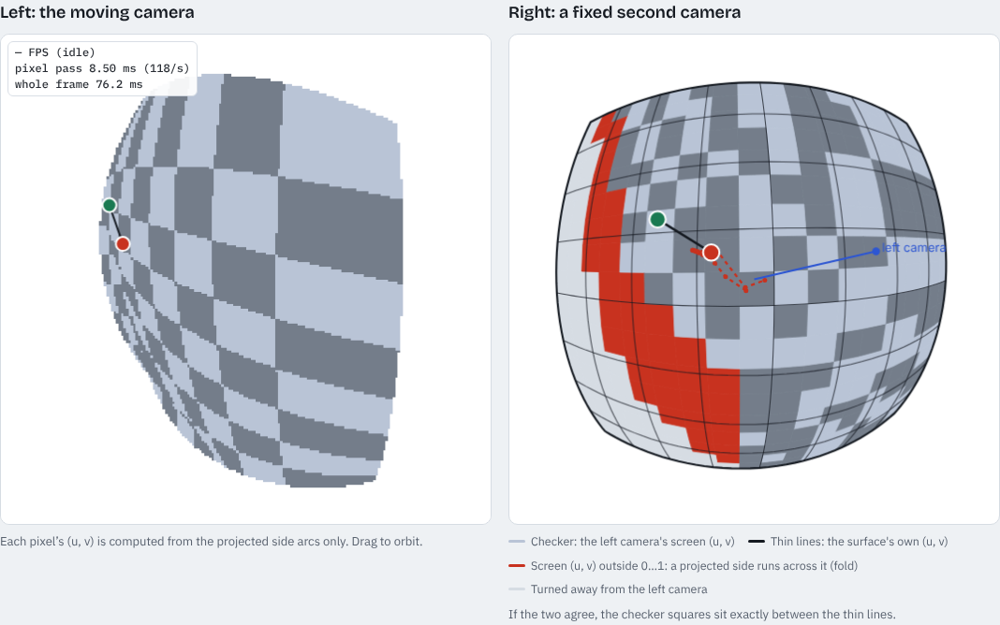
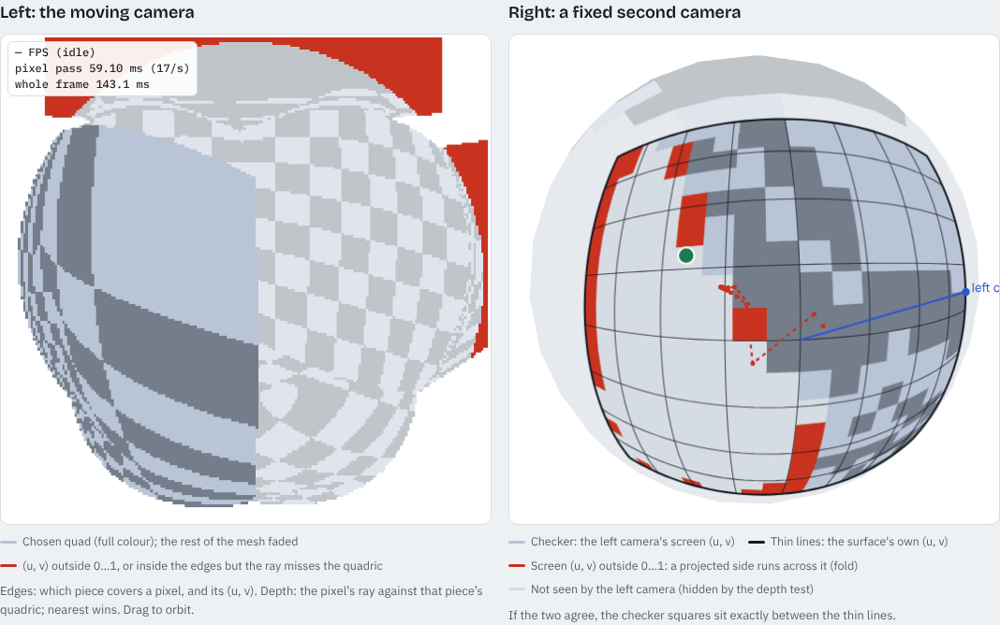
Example 08: whole mesh with depth test and occlusion map; check against step 11 (#24)
Claude-Session: https://claude.ai/code/session_01JACsrEAfGJwPGrGbmx3fgo

diff --git a/examples/08-uv-slides.html b/examples/08-uv-slides.html
@@ -67,7 +67,8 @@ tr:last-child td{border-bottom:0}
 <ol class="steps">
   <li><b>Option (b):</b> each side arc of a piece is projected onto the screen, where it is a 2D conic K. Then <code>u = K3 / (K3 + K1)</code> and <code>v = K0 / (K0 + K2)</code>. Each K is scaled to 1 at the piece's projected centre, so the centre gets (0.5, 0.5).</li>
   <li><b>Two forms of K.</b> The projected arc is part of a whole ellipse. The <b>full conic</b> K is also 0 on the ellipse's other half, which can run back across the piece (smooth cube): then u drops to 0 in the wrong place. The <b>arc only</b> form is 0 on the arc alone, at the price of a square root per side.</li>
-  <li><b>Left:</b> what the camera sees, coloured by that screen (u, v). <b>Right:</b> the same quad from a second camera that stays put. Its surface is painted with the <i>left</i> camera's screen (u, v). The thin lines are the surface's own (u, v) from step 11.</li>
+  <li><b>Depth</b> as in step 11: every piece whose edges contain a pixel shoots that pixel's ray at its own quadric (one quadratic). The nearest wins and writes its normalized distance to the occlusion map. Of the quadric's two hits, the piece takes the one whose outward side faces the camera the way the piece does.</li>
+  <li><b>Left:</b> what the camera sees, the whole mesh, coloured by the screen (u, v). The chosen quad is in full colour. <b>Right:</b> the same mesh from a second camera that stays put, painted with the <i>left</i> camera's screen (u, v) wherever the left camera sees it. The thin lines are the chosen quad's own (u, v) from step 11.</li>
   <li><b>Drag the left view.</b> If the checker on the right moves across the thin lines, the (u, v) is sliding on the surface.</li>
   <li><span style="color:var(--good)">●</span> the surface point at the marker (u, v). <span style="color:var(--warn)">●</span> where the left camera's screen (u, v) says the marker is. The dotted path is the red dot for 25 camera angles around the quad.</li>
 </ol>
@@ -76,7 +77,8 @@ tr:last-child td{border-bottom:0}
   <div class="crow"><span class="clab">Mesh</span><div class="seg" id="g-mesh"><button data-v="0">Smooth cube</button><button data-v="1">Hard cube</button><button data-v="2">Mixed cube</button><button data-v="3">Wave</button></div></div>
   <div class="crow"><span class="clab">Quad</span><div class="seg" id="g-quad"></div></div>
   <div class="crow"><span class="clab">Side curve K</span><div class="seg" id="g-form"><button data-v="0">Arc only: b1 − 2w′√(b0·b2)</button><button data-v="1">Full conic: b1² − 4w′²·b0·b2</button></div></div>
-  <div class="crow"><span class="clab">Left view</span><div class="seg" id="g-mode"><button data-v="0">Screen (u, v): option b</button><button data-v="1">Surface (u, v): step 11</button></div></div>
+  <div class="crow"><span class="clab">Show</span><div class="seg" id="g-view"><button data-v="0">(u, v) checker</button><button data-v="1">Occlusion map (depth)</button><button data-v="2">Check against step 11</button></div></div>
+  <div class="crow"><span class="clab">(u, v) from</span><div class="seg" id="g-mode"><button data-v="0">Screen (u, v): option b</button><button data-v="1">Surface (u, v): step 11</button></div></div>
   <div class="crow"><span class="clab">Marker u</span><div class="slider"><input id="mu" type="range" min="0.02" max="0.98" step="0.01" aria-label="Marker u"><output id="muo"></output></div></div>
   <div class="crow"><span class="clab">Marker v</span><div class="slider"><input id="mv" type="range" min="0.02" max="0.98" step="0.01" aria-label="Marker v"><output id="mvo"></output></div></div>
   <div class="crow"><span class="clab">Resolution</span><div class="seg" id="g-res"><button data-v="100">100²</button><button data-v="200">200²</button><button data-v="400">400²</button><button data-v="800">800²</button></div></div>
@@ -85,9 +87,10 @@ tr:last-child td{border-bottom:0}
 
 <div class="main">
   <div class="view"><h2>Left: the moving camera</h2><div class="stage"><canvas id="cv" aria-label="What the moving camera sees. Drag to orbit."></canvas><div class="fps" id="fps"></div></div>
+    <div class="legend" id="lleg"></div>
     <p class="note" id="lnote">Each pixel's (u, v) is computed from the projected side arcs only. Drag to orbit.</p></div>
   <div class="view"><h2>Right: a fixed second camera</h2><canvas id="ov" aria-label="The same quad from a fixed camera, painted with the left camera's screen (u, v). Drag to orbit this view."></canvas>
-    <div class="legend"><span><span class="ln" style="background:var(--pin)"></span>Checker: the left camera's screen (u, v)</span><span><span class="ln" style="background:var(--fg)"></span>Thin lines: the surface's own (u, v)</span><span><span class="ln" style="background:var(--warn)"></span>Screen (u, v) outside 0…1: a projected side runs across it (fold)</span><span><span class="ln" style="background:var(--line)"></span>Turned away from the left camera</span></div>
+    <div class="legend"><span><span class="ln" style="background:var(--pin)"></span>Checker: the left camera's screen (u, v)</span><span><span class="ln" style="background:var(--fg)"></span>Thin lines: the surface's own (u, v)</span><span><span class="ln" style="background:var(--warn)"></span>Screen (u, v) outside 0…1: a projected side runs across it (fold)</span><span><span class="ln" style="background:var(--line)"></span>Not seen by the left camera (hidden by the depth test)</span></div>
     <p class="note">If the two agree, the checker squares sit exactly between the thin lines.</p></div>
 </div>
 
@@ -329,44 +332,59 @@ function landing(pc,S,cam,ut,vt){const F=(a,b)=>{const X=pc.eval(a,b);if(!X)retu
   const f=F(a,b);if(!f||Math.hypot(f[0],f[1])>1e-5)return null;return{a,b,X:pc.eval(a,b)}}
 
 // ---------------- state ----------------
-let st={mesh:0,quad:2,mode:0,form:0,res:200,mu:0.3,mv:0.65,cy:0,cp:0,oy:0,op:0,init:false},R=null;
+let st={mesh:0,quad:2,mode:0,form:0,view:0,res:200,mu:0.3,mv:0.65,cy:0,cp:0,oy:0,op:0,init:false},R=null;
 try{const s=JSON.parse(localStorage.getItem('uv8')||'null');if(s)Object.assign(st,s)}catch(e){}
 const save=()=>{try{localStorage.setItem('uv8',JSON.stringify(st))}catch(e){}};
 let CONV=null,CONVKEY='';
-function conv(){const k=String(st.mesh);if(CONVKEY!==k){CONV=PIECES.convert(PIECES.source(st.mesh),0.03,0);CONVKEY=k}return CONV}
-function quadInfo(){const C=conv(),q=PIECES.source(st.mesh)[st.quad],T=mul(q.x.reduce((s,p)=>add(s,p),[0,0,0]),0.25);let side=0;for(let i=0;i<4;i++)side=Math.max(side,len(sub(q.x[(i+1)%4],q.x[i])));
+function conv(){const k=String(st.mesh);if(CONVKEY!==k){CONV=PIECES.convert(PIECES.source(st.mesh),0.03,0);CONVKEY=k;
+  // per piece, fixed on the surface: its centre and outward direction, and σ = which way its quadric's gradient points (outward or inward)
+  CONV.pieces.forEach(pc=>{const X=pc.eval(0.5,0.5),n=norm(pc.N.reduce((s,p)=>add(s,norm(p)),[0,0,0]));pc.ctr=X;pc.out=n;pc.sigma=0;
+    if(X&&pc.geo){const G=pc.geo,L=mul(sub(X,G.c0),G.sc),gr=add(mul(G.Ax(L),2),G.g);pc.sigma=Math.sign(dot(gr,n))}})}return CONV}
+function quadInfo(){const C=conv(),src=PIECES.source(st.mesh),q=src[st.quad];let side=0;for(let i=0;i<4;i++)side=Math.max(side,len(sub(q.x[(i+1)%4],q.x[i])));
+  const all=src.flatMap(f=>f.x),ctr=mul(all.reduce((s,p)=>add(s,p),[0,0,0]),1/all.length);let rad=0;all.forEach(p=>rad=Math.max(rad,len(sub(p,ctr))));
   const n=norm(q.n.reduce((s,p)=>add(s,norm(p)),[0,0,0])),pcs=C.quads[st.quad].pieces;
-  // the marker lives on the inner piece (or the first piece)
-  const mk=pcs.find(p=>p.kind===0)||pcs[0];return{C,T,dist:2.1*side,yaw0:Math.atan2(n[0],-n[1]),pitch0:Math.max(-1.25,Math.min(1.25,Math.asin(Math.max(-1,Math.min(1,n[2]))))),pcs,mk,n}}
+  // the marker lives on the inner piece (or the first piece) of the chosen quad
+  const mk=pcs.find(p=>p.kind===0)||pcs[0];return{C,T:ctr,rad,dist:3.0*rad,EL:C.EL,yaw0:Math.atan2(n[0],-n[1]),pitch0:Math.max(-1.25,Math.min(1.25,Math.asin(Math.max(-1,Math.min(1,n[2]))))),pcs,mk,n}}
 function resetCams(Q){st.cy=Q.yaw0+0.75;st.cp=Math.max(-1.3,Math.min(1.3,Q.pitch0+0.3));st.oy=Q.yaw0-0.15;st.op=Math.max(-1.3,Math.min(1.3,Q.pitch0+0.2));st.init=true}
 
 // ---- the pixel pass, as the method would run it: per piece, per row, forward differences along the row ----
-// each side becomes: t0 straight (K affine), t1 arc only (b1 affine, q = c·b0·b2 quadratic, K = b1 − sg·√max(0,q)), t2 full conic (K quadratic)
+// edges: each side is t0 straight (K affine), t1 arc only (b1 affine, q = c·b0·b2 quadratic, K = b1 − sg·√max(0,q)), t2 full conic (K quadratic)
 function prep(S){return S.map(c=>{const s=c.s;if(!c.conic){const g=Kraw(c,0,0)*s;return{t:0,a:Kraw(c,1,0)*s-g,b:Kraw(c,0,1)*s-g,g}}
   const{p0,a,p2,D}=c,B=(x,y)=>[((a[0]-x)*(p2[1]-y)-(a[1]-y)*(p2[0]-x))/D,((x-p0[0])*(p2[1]-p0[1])-(y-p0[1])*(p2[0]-p0[0]))/D,((a[0]-p0[0])*(y-p0[1])-(a[1]-p0[1])*(x-p0[0]))/D],
     o=B(0,0),X=B(1,0),Y=B(0,1),aff=i=>[X[i]-o[i],Y[i]-o[i],o[i]];
   return st.form===1?{t:2,b0:aff(0),b1:aff(1),b2:aff(2),s,c:s*c.W4}:{t:1,b0:aff(0),b1:aff(1).map(v=>v*s),b2:aff(2),c:s*s*c.W4,sg:Math.sign(s)}})}
 const af=(f,x,y)=>f[0]*x+f[1]*y+f[2];
 const quadAt=(d,x,y)=>d.t===1?d.c*af(d.b0,x,y)*af(d.b2,x,y):d.s*af(d.b1,x,y)**2-d.c*af(d.b0,x,y)*af(d.b2,x,y);
-function pixelPass(P,W){const pid=new Int16Array(W*W).fill(-1),cnt=new Uint8Array(W*W),pu=new Float32Array(W*W),pv=new Float32Array(W*W);let tests=0,rows=0;
-  const L=P.map(e=>e.S&&e.box?prep(e.S):null),st4=[0,0,0,0].map(()=>({k:0,d:0,dd:0,b:0,db:0}));
+// depth: the pixel's ray against the piece's quadric, in the piece's local frame. a(x, y) = d·A·d is quadratic in the pixel, b = 2·o·A·d + g·d is affine, c = Q(o) is constant.
+// Of the two hits, the piece's own is the one where the outward normal faces the way the piece faces the camera:
+// t = (−b − s·√D) / 2a with s = σ·f (σ: the quadric's gradient points outward (+1) or inward (−1); f: the piece faces the camera (+1) or away (−1)).
+function depthPrep(pc,cam){const G=pc.geo;if(!G||!pc.ctr)return null;const o=mul(sub(cam.pos,G.c0),G.sc),f=dot(pc.out,sub(cam.pos,pc.ctr))>=0?1:-1;
+  const dir=(x,y)=>mul(rayDir(cam,x,y),G.sc),A=(x,y)=>{const d=dir(x,y);return dot(d,G.Ax(d))},B=(x,y)=>{const d=dir(x,y);return 2*dot(o,G.Ax(d))+dot(G.g,d)};
+  return{A,B,c:G.Qf(o),s:pc.sigma*f}}
+function pixelPass(P,cam,W,near,far){const N=W*W,pid=new Int16Array(N).fill(-1),pu=new Float32Array(N),pv=new Float32Array(N),zb=new Float32Array(N).fill(Infinity),cov=new Uint8Array(N),miss=new Uint8Array(N);
+  let tests=0,inside=0,rows=0;const L=P.map(e=>e.S&&e.box?prep(e.S):null),Z=P.map((e,i)=>L[i]?depthPrep(e.pc,cam):null),st4=[0,0,0,0].map(()=>({k:0,d:0,dd:0,b:0,db:0}));
   for(let y=0;y<W;y++){const sy=y+0.5;
-    for(let i=0;i<P.length;i++){const D=L[i];if(!D)continue;const bx=P[i].box;if(sy<bx[1]||sy>bx[3])continue;const x0=Math.max(0,Math.ceil(bx[0]-0.5)),x1=Math.min(W-1,Math.floor(bx[2]-0.5));if(x1<x0)continue;rows++;
-      // row start: each side's value and its differences at x0 + 0.5
+    for(let i=0;i<P.length;i++){const D=L[i],Zp=Z[i];if(!D)continue;const bx=P[i].box;if(sy<bx[1]||sy>bx[3])continue;const x0=Math.max(0,Math.ceil(bx[0]-0.5)),x1=Math.min(W-1,Math.floor(bx[2]-0.5));if(x1<x0)continue;rows++;
+      // row start: each side's value and its differences at x0 + 0.5; the same for the depth quadratic a and the affine b
       const sx=x0+0.5;for(let k=0;k<4;k++){const d=D[k],r=st4[k];r.dd=0;r.b=0;r.db=0;if(d.t===0){r.k=af([d.a,d.b,d.g],sx,sy);r.d=d.a}
         else{const q0=quadAt(d,sx,sy),q1=quadAt(d,sx+1,sy),q2=quadAt(d,sx+2,sy);r.k=q0;r.d=q1-q0;r.dd=q2-2*q1+q0;if(d.t===1){r.b=af(d.b1,sx,sy);r.db=d.b1[0]}}}
-      const t0=D[0].t,t1=D[1].t,t2=D[2].t,t3=D[3].t,r0=st4[0],r1=st4[1],r2=st4[2],r3=st4[3],g0=D[0].sg,g1=D[1].sg,g2=D[2].sg,g3=D[3].sg;
+      let za=0,zda=0,zdda=0,zb0=0,zdb=0;if(Zp){const a0=Zp.A(sx,sy),a1=Zp.A(sx+1,sy),a2=Zp.A(sx+2,sy);za=a0;zda=a1-a0;zdda=a2-2*a1+a0;zb0=Zp.B(sx,sy);zdb=Zp.B(sx+1,sy)-zb0}
+      const t0=D[0].t,t1=D[1].t,t2=D[2].t,t3=D[3].t,r0=st4[0],r1=st4[1],r2=st4[2],r3=st4[3],g0=D[0].sg,g1=D[1].sg,g2=D[2].sg,g3=D[3].sg,zc=Zp?Zp.c:0,zs=Zp?Zp.s:0;
       for(let x=x0;x<=x1;x++){tests++;
         const K0=t0===1?r0.b-g0*Math.sqrt(Math.max(0,r0.k)):r0.k,K1=t1===1?r1.b-g1*Math.sqrt(Math.max(0,r1.k)):r1.k,K2=t2===1?r2.b-g2*Math.sqrt(Math.max(0,r2.k)):r2.k,K3=t3===1?r3.b-g3*Math.sqrt(Math.max(0,r3.k)):r3.k;
-        if(Math.min(K0,K1,K2,K3)>=-1e-9){const o=y*W+x;if(cnt[o]++===0){pid[o]=i;pu[o]=K3/(K3+K1);pv[o]=K0/(K0+K2)}}
-        r0.k+=r0.d;r0.d+=r0.dd;r0.b+=r0.db;r1.k+=r1.d;r1.d+=r1.dd;r1.b+=r1.db;r2.k+=r2.d;r2.d+=r2.dd;r2.b+=r2.db;r3.k+=r3.d;r3.d+=r3.dd;r3.b+=r3.db}}}
-  let owned=0,twice=0;for(let o=0;o<W*W;o++){if(cnt[o])owned++;if(cnt[o]>1)twice++}
-  return{pid,pu,pv,owned,twice,tests,rows,L}}
-function rayPass(P,cam,W){const pid=new Int16Array(W*W).fill(-1),pu=new Float32Array(W*W),pv=new Float32Array(W*W);let owned=0,tests=0;
+        if(Math.min(K0,K1,K2,K3)>=-1e-9){const o=y*W+x;inside++;if(cov[o]<255)cov[o]++;
+          // depth (same relative tolerance on the discriminant as the conversion's own quadratic: a doubled plane touches the ray in one point)
+          let t=NaN;if(Zp){let Dd=zb0*zb0-4*za*zc;if(Dd<0&&Dd>-1e-9*(zb0*zb0+Math.abs(4*za*zc)+1e-30))Dd=0;if(Dd>=0)t=Math.abs(za)>1e-14?(-zb0-zs*Math.sqrt(Dd))/(2*za):-zc/zb0}
+          if(!(t>1e-6))miss[o]=1;else if(t<zb[o]){zb[o]=t;pid[o]=i;pu[o]=K3/(K3+K1);pv[o]=K0/(K0+K2)}}
+        r0.k+=r0.d;r0.d+=r0.dd;r0.b+=r0.db;r1.k+=r1.d;r1.d+=r1.dd;r1.b+=r1.db;r2.k+=r2.d;r2.d+=r2.dd;r2.b+=r2.db;r3.k+=r3.d;r3.d+=r3.dd;r3.b+=r3.db;za+=zda;zda+=zdda;zb0+=zdb}}}
+  // occlusion map: normalized distance (t − near)/(far − near) per pixel, 0 = nothing written
+  const occ=new Float32Array(N);let owned=0,deep=0,lost=0;for(let o=0;o<N;o++){if(pid[o]>=0){owned++;occ[o]=Math.max(1e-6,Math.min(1,(zb[o]-near)/(far-near)))}else if(miss[o])lost++;if(cov[o]>1)deep++}
+  return{pid,pu,pv,zb,occ,miss,owned,deep,lost,tests,inside,rows,L}}
+function rayPass(P,cam,W,near,far){const N=W*W,pid=new Int16Array(N).fill(-1),pu=new Float32Array(N),pv=new Float32Array(N),zb=new Float32Array(N).fill(Infinity),occ=new Float32Array(N);let owned=0,tests=0;
   for(let y=0;y<W;y++)for(let x=0;x<W;x++){const sx=x+0.5,sy=y+0.5,o=y*W+x;let best=null;const d=rayDir(cam,sx,sy);
     P.forEach((e,i)=>{if(!e.pc.geo||!e.pc.geo.pencil||!e.box||sx<e.box[0]||sx>e.box[2]||sy<e.box[1]||sy>e.box[3])return;tests++;const h=hitPiece(e.pc,cam,d);if(h&&(!best||h.t<best.t))best={...h,i}});
-    if(best){pid[o]=best.i;pu[o]=best.u;pv[o]=best.v;owned++}}
-  return{pid,pu,pv,owned,twice:0,tests,rows:0,L:null}}
+    if(best){pid[o]=best.i;pu[o]=best.u;pv[o]=best.v;zb[o]=best.t;occ[o]=Math.max(1e-6,Math.min(1,(best.t-near)/(far-near)));owned++}}
+  return{pid,pu,pv,zb,occ,miss:null,owned,deep:0,lost:0,tests,inside:0,rows:0,L:null}}
 
 // ---- cost model (Skylake float32, one core, throughput-bound): ALU ops 0.5 cycle, divider ops (DIV, SQRT) 3, compares 1 ----
 const OPN=['add','mul','fma','max','min','sqrt','div','cmp'];
@@ -375,32 +393,38 @@ const cyc=T=>Math.max(((T.add||0)+(T.mul||0)+(T.fma||0)+(T.max||0)+(T.min||0))*0
 const flops=T=>OPN.reduce((s,k)=>s+(T[k]||0)*(k==='fma'?2:1),0);
 const opStr=T=>OPN.filter(k=>T[k]).map(k=>(+T[k].toFixed(1))+' '+k.toUpperCase()).join(', ');
 const PIX={0:{add:1},1:{add:4,max:1,sqrt:1},2:{add:2}};                       // per side, per pixel: step the differences, then K
-const PIXQ={add:2,div:2,min:3,cmp:1};                                          // per pixel: u, v, inside test
+const PIXQ={min:3,cmp:1};                                                      // per pixel and piece: inside test (the depth differences, 3 ADD, are added with it)
+const PIXZ={add:3,mul:1,fma:3,sqrt:1,div:3,cmp:3};                             // per inside pixel: discriminant, root, depth test; u, v (2 ADD, 2 DIV); normalized distance (1 FMA)
 const ROW={0:{fma:2},1:{fma:8,mul:3,add:1},2:{fma:10,mul:4,add:2}};             // per side, per row start
-const ROWQ={cmp:2};
+const ROWQ={cmp:2,fma:12,mul:3,add:3};                                         // per piece, per row start: box clip; depth a (3 values) and b (2 values)
 const PROJ={add:5,mul:3,fma:6,div:1};                                          // one point onto the screen
 const FRAME={0:{add:4,mul:2,div:1},1:{add:8,mul:8,fma:6,sqrt:1,div:2},2:{add:8,mul:8,fma:6,sqrt:1,div:2}};
 const CENTRE={fma:12,add:8,mul:4,sqrt:4,div:4};                                  // the 4 K at the projected centre, and their scales
+const ZFRAME={add:10,mul:12,fma:40,cmp:1};                                     // camera into the piece's frame, A·d terms, c = Q(o), facing sign
 function costOf(R){const T={pix:{},row:{},frame:{}},F=R.F;if(!F.L)return null;
-  R.P.forEach((e,i)=>{const D=F.L[i];if(!D)return;const n=R.pixTests[i]||0,r=R.rowCount[i]||0;D.forEach(d=>{addOps(T.pix,PIX[d.t],n);addOps(T.row,ROW[d.t],r);addOps(T.frame,FRAME[d.t])});addOps(T.pix,PIXQ,n);addOps(T.row,ROWQ,r);
-    const curved=D.filter(d=>d.t).length;addOps(T.frame,PROJ,4+curved+1);addOps(T.frame,CENTRE)});
-  return T}
+  R.P.forEach((e,i)=>{const D=F.L[i];if(!D)return;const n=R.pixTests[i]||0,r=R.rowCount[i]||0;D.forEach(d=>{addOps(T.pix,PIX[d.t],n);addOps(T.row,ROW[d.t],r);addOps(T.frame,FRAME[d.t])});addOps(T.pix,PIXQ,n);addOps(T.pix,{add:3},n);addOps(T.row,ROWQ,r);
+    const curved=D.filter(d=>d.t).length;addOps(T.frame,PROJ,4+curved+1);addOps(T.frame,CENTRE);addOps(T.frame,ZFRAME)});
+  addOps(T.pix,PIXZ,F.inside);return T}
 
 function run(fast){try{const Q=quadInfo();if(!st.init)resetCams(Q);const W=st.res,tf0=performance.now();
-  const cam=makeCam(W,Q.T,st.cy,st.cp,Q.dist),EL=Q.C.EL;
-  const P=Q.pcs.map(pc=>{const S=screenSetup(pc,cam);let box=null;if(S){let x0=1e9,y0=1e9,x1=-1e9,y1=-1e9;for(let j=0;j<=10;j++)for(let i=0;i<=10;i++){const X=pc.eval(i/10,j/10);if(!X)continue;const p=project(cam,X);if(p[2]<=0)continue;x0=Math.min(x0,p[0]);y0=Math.min(y0,p[1]);x1=Math.max(x1,p[0]);y1=Math.max(y1,p[1])}if(x1>=x0)box=[x0-2,y0-2,x1+2,y1+2]}return{pc,S,box}});
-  const tp0=performance.now(),F=st.mode===0?pixelPass(P,W):rayPass(P,cam,W),tp1=performance.now();
+  const cam=makeCam(W,Q.T,st.cy,st.cp,Q.dist),EL=Q.EL,near=Q.dist-1.35*Q.rad,far=Q.dist+1.35*Q.rad;
+  const P=Q.C.pieces.map(pc=>{const S=screenSetup(pc,cam);let box=null;if(S){let x0=1e9,y0=1e9,x1=-1e9,y1=-1e9;for(let j=0;j<=10;j++)for(let i=0;i<=10;i++){const X=pc.eval(i/10,j/10);if(!X)continue;const p=project(cam,X);if(p[2]<=0)continue;x0=Math.min(x0,p[0]);y0=Math.min(y0,p[1]);x1=Math.max(x1,p[0]);y1=Math.max(y1,p[1])}if(x1>=x0)box=[x0-2,y0-2,x1+2,y1+2]}return{pc,S,box,sel:pc.qi===st.quad}});
+  const tp0=performance.now(),F=st.mode===0?pixelPass(P,cam,W,near,far):rayPass(P,cam,W,near,far),tp1=performance.now();
   // per piece: pixels tested and row starts (for the cost model; same loops as the pass, counting only)
   const pixTests=[],rowCount=[];if(F.L)P.forEach((e,i)=>{if(!F.L[i])return;let n=0,r=0;for(let y=0;y<W;y++){const sy=y+0.5;if(sy<e.box[1]||sy>e.box[3])continue;const x0=Math.max(0,Math.ceil(e.box[0]-0.5)),x1=Math.min(W-1,Math.floor(e.box[2]-0.5));if(x1<x0)continue;r++;n+=x1-x0+1}pixTests[i]=n;rowCount[i]=r});
-  const {pid,pu,pv,twice,owned}=F;
-  // slide over the quad
-  let smax=0,ssum=0,sn=0,uvmax=0,back=0,tot=0;P.forEach(e=>{if(!e.S)return;for(let j=1;j<10;j++)for(let i=1;i<10;i++){const u=i/10,v=j/10,X=e.pc.eval(u,v);if(!X)continue;tot++;if(!faces(e.pc,u,v,cam)){back++;continue}const p=project(cam,X);const r=suv(e.S,p[0],p[1]);
+  // a surface point is seen by the left camera when its pixel (or a 4-neighbour, for pixels on a seam) went to its own piece in the depth test
+  const seen=(i,X)=>{const p=project(cam,X);if(p[2]<=0)return false;const x=Math.floor(p[0]),y=Math.floor(p[1]);for(const[dx,dy]of[[0,0],[1,0],[-1,0],[0,1],[0,-1]]){const X2=x+dx,Y2=y+dy;if(X2>=0&&Y2>=0&&X2<W&&Y2<W&&F.pid[Y2*W+X2]===i)return true}return false};
+  // slide over the chosen quad
+  let smax=0,ssum=0,sn=0,uvmax=0,hid=0,tot=0;P.forEach((e,i)=>{if(!e.sel||!e.S)return;for(let j=1;j<10;j++)for(let k=1;k<10;k++){const u=k/10,v=j/10,X=e.pc.eval(u,v);if(!X)continue;tot++;if(!seen(i,X)){hid++;continue}const p=project(cam,X);const r=suv(e.S,p[0],p[1]);
     const X2=e.pc.eval(clamp01(r.u),clamp01(r.v));if(!X2)continue;const d=len(sub(X2,X))/EL;smax=Math.max(smax,d);ssum+=d;sn++;uvmax=Math.max(uvmax,Math.abs(clamp01(r.u)-u),Math.abs(clamp01(r.v)-v))}});
   // marker and its trail
-  const mi=Q.pcs.indexOf(Q.mk),G=Q.mk.eval(st.mu,st.mv),Sm=P[mi].S,land=Sm&&faces(Q.mk,st.mu,st.mv,cam)?landing(Q.mk,Sm,cam,st.mu,st.mv):null;
+  const mi=P.findIndex(e=>e.pc===Q.mk),G=Q.mk.eval(st.mu,st.mv),Sm=P[mi].S,land=Sm&&G&&seen(mi,G)?landing(Q.mk,Sm,cam,st.mu,st.mv):null;
   const tkey=[st.mesh,st.quad,st.cp,st.mu,st.mv,st.form].join('|');let trail=TRAIL.key===tkey?TRAIL.trail:null;if(!trail){trail=[];for(let k=0;k<=24;k++){const yaw=Q.yaw0-1.2+2.4*k/24,c=makeCam(W,Q.T,yaw,st.cp,Q.dist);if(!faces(Q.mk,st.mu,st.mv,c)){trail.push(null);continue}const S=screenSetup(Q.mk,c),l=S?landing(Q.mk,S,c,st.mu,st.mv):null;trail.push(l?l.X:null)}TRAIL={key:tkey,trail}}
-  let tlen=0,tspan=0;const tv=trail.filter(Boolean);for(let i=1;i<trail.length;i++)if(trail[i]&&trail[i-1])tlen+=len(sub(trail[i],trail[i-1]));tv.forEach(a=>tv.forEach(b=>tspan=Math.max(tspan,len(sub(a,b)))));
-  R={Q,cam,W,F,pixTests,rowCount,passMs:tp1-tp0,P,pid,pu,pv,twice,owned,smax,smean:sn?ssum/sn:0,uvmax,back,tot,G,land,trail,tspan,EL,noScreen:P.filter(e=>!e.S).length};
+  let tspan=0;const tv=trail.filter(Boolean);tv.forEach(a=>tv.forEach(b=>tspan=Math.max(tspan,len(sub(a,b)))));
+  // check: the same pixels through the step 11 ray pass (the surface's own pieces, exact hits); only when that view is open
+  let CMP=null;if(st.view===2&&st.mode===0){const B=rayPass(P,cam,W,near,far),N=W*W,cls=new Uint8Array(N);let same=0,other=0,onlyB=0,onlyA=0;
+    for(let o=0;o<N;o++){const a=F.pid[o],b=B.pid[o];if(a>=0&&b>=0){if(a===b){cls[o]=1;same++}else{cls[o]=2;other++}}else if(b>=0){cls[o]=3;onlyB++}else if(a>=0){cls[o]=4;onlyA++}}CMP={cls,same,other,onlyB,onlyA}}
+  R={Q,cam,W,F,CMP,near,far,pixTests,rowCount,passMs:tp1-tp0,P,seen,pid:F.pid,pu:F.pu,pv:F.pv,smax,smean:sn?ssum/sn:0,uvmax,hid,tot,G,land,trail,tspan,EL,noScreen:P.filter(e=>e.sel&&!e.S).length};
   drawAll();R.frameMs=performance.now()-tf0;tick();checks()}catch(e){log('ERROR '+(e.stack||e),true)}}
 let TRAIL={key:''};
 // FPS: frames actually drawn in the last second (they only happen while something moves: drag, auto orbit, sliders)
@@ -414,51 +438,56 @@ const cv=document.getElementById('cv'),ctx=cv.getContext('2d'),ov=document.getEl
 function readC(){const g=getComputedStyle(document.documentElement);['fg','muted','line','surface','pin','pst','pco','good','warn','accent'].forEach(k=>C[k]=g.getPropertyValue('--'+k).trim())}
 const rgb=h=>{h=h.replace('#','');return[0,2,4].map(i=>parseInt(h.slice(i,i+2),16))};
 const mix=(a,b,t)=>a.map((x,i)=>Math.round(x*(1-t)+b[i]*t));
-function uvColour(kind,u,v){if(!(u>=-1e-6&&u<=1+1e-6&&v>=-1e-6&&v<=1+1e-6))return rgb(C.warn);const base=rgb([C.pin,C.pst,C.pco][kind]||C.pin),odd=(Math.floor(clamp01(u)*CHK-1e-9)+Math.floor(clamp01(v)*CHK-1e-9))&1;return odd?mix(base,rgb(C.fg),0.42):base}
+// the chosen quad in full colour, the rest of the mesh faded toward the background
+function uvColour(kind,u,v,sel){if(!(u>=-1e-6&&u<=1+1e-6&&v>=-1e-6&&v<=1+1e-6))return rgb(C.warn);const base=rgb([C.pin,C.pst,C.pco][kind]||C.pin),odd=(Math.floor(clamp01(u)*CHK-1e-9)+Math.floor(clamp01(v)*CHK-1e-9))&1,c=odd?mix(base,rgb(C.fg),0.42):base;return sel===false?mix(c,rgb(C.surface),0.55):c}
 function sizeCanvas(c){const r=c.getBoundingClientRect(),d=Math.min(2,window.devicePixelRatio||1),w=Math.max(200,Math.round(r.width*d));if(c.width!==w){c.width=w;c.height=w}return w}
 function dot2(g,p,r,col,ring){g.beginPath();g.arc(p[0],p[1],r,0,7);g.fillStyle=col;g.fill();if(ring){g.lineWidth=2;g.strokeStyle=C.surface;g.stroke()}}
-function drawLeft(){const W=R.W,D=sizeCanvas(cv),{pid,pu,pv,P}=R;off.width=W;off.height=W;const o=off.getContext('2d'),im=o.createImageData(W,W),d=im.data,bg=rgb(C.surface);
-  for(let i=0;i<W*W;i++){const c=pid[i]<0?bg:uvColour(P[pid[i]].pc.kind,pu[i],pv[i]);d[4*i]=c[0];d[4*i+1]=c[1];d[4*i+2]=c[2];d[4*i+3]=255}o.putImageData(im,0,0);
-  ctx.imageSmoothingEnabled=false;ctx.clearRect(0,0,D,D);ctx.drawImage(off,0,0,D,D);const s=D/W,pr=X=>{const p=project(R.cam,X);return p[2]>0?[p[0]*s,p[1]*s]:null};
+function drawLeft(){const W=R.W,D=sizeCanvas(cv),{pid,pu,pv,P,F}=R;off.width=W;off.height=W;const o=off.getContext('2d'),im=o.createImageData(W,W),d=im.data,bg=rgb(C.surface),fg=rgb(C.fg),warn=rgb(C.warn);
+  const cmpc=[bg,mix(fg,bg,0.78),warn,rgb(C.accent),rgb(C.good)];for(let i=0;i<W*W;i++){let c;if(st.view===2&&R.CMP)c=cmpc[R.CMP.cls[i]];else if(st.view===1)c=F.occ[i]>0?mix(fg,bg,F.occ[i]):(F.miss&&F.miss[i]?warn:bg);else c=pid[i]<0?(F.miss&&F.miss[i]?warn:bg):uvColour(P[pid[i]].pc.kind,pu[i],pv[i],P[pid[i]].sel);d[4*i]=c[0];d[4*i+1]=c[1];d[4*i+2]=c[2];d[4*i+3]=255}o.putImageData(im,0,0);
+  ctx.imageSmoothingEnabled=false;ctx.clearRect(0,0,D,D);ctx.drawImage(off,0,0,D,D);if(st.view!==0)return;const s=D/W,pr=X=>{const p=project(R.cam,X);return p[2]>0?[p[0]*s,p[1]*s]:null};
   const g=R.G&&pr(R.G),l=R.land&&pr(R.land.X);if(g&&l){ctx.beginPath();ctx.moveTo(g[0],g[1]);ctx.lineTo(l[0],l[1]);ctx.lineWidth=2;ctx.strokeStyle=C.fg;ctx.stroke()}
-  if(g)dot2(ctx,g,Math.max(5,D/70),C.good,true);if(l)dot2(ctx,l,Math.max(5,D/70),C.warn,true)}
-function drawRight(){const D=sizeCanvas(ov),{Q}=R,oc=makeCam(D,Q.T,st.oy,st.op,Q.dist*1.05),cells=[],N=18;otx.clearRect(0,0,D,D);
-  R.P.forEach(e=>{const pc=e.pc,grid=[];for(let j=0;j<=N;j++)for(let i=0;i<=N;i++){const X=pc.eval(i/N,j/N);grid.push(X?project(oc,X):null)}
+  if(g&&R.land)dot2(ctx,g,Math.max(5,D/70),C.good,true);if(l)dot2(ctx,l,Math.max(5,D/70),C.warn,true)}
+function drawRight(){const D=sizeCanvas(ov),{Q}=R,oc=makeCam(D,Q.T,st.oy,st.op,Q.dist*1.05),cells=[];otx.clearRect(0,0,D,D);
+  R.P.forEach((e,pi)=>{const pc=e.pc,N=e.sel?18:8,grid=[];for(let j=0;j<=N;j++)for(let i=0;i<=N;i++){const X=pc.eval(i/N,j/N);grid.push(X?project(oc,X):null)}
     for(let j=0;j<N;j++)for(let i=0;i<N;i++){const a=grid[j*(N+1)+i],b=grid[j*(N+1)+i+1],c=grid[(j+1)*(N+1)+i+1],d=grid[(j+1)*(N+1)+i];if(!a||!b||!c||!d||a[2]<=0||b[2]<=0||c[2]<=0||d[2]<=0)continue;
-      let col=rgb(C.line);if(e.S&&faces(pc,(i+0.5)/N,(j+0.5)/N,R.cam)){const p=project(R.cam,pc.eval((i+0.5)/N,(j+0.5)/N));if(p[2]>0){const r=suv(e.S,p[0],p[1]);col=uvColour(pc.kind,r.u,r.v)}}   // grey: turned away from the left camera, so it has no pixel there
+      // the left camera's screen (u, v) where the left camera sees this point; grey where it doesn't (hidden by the depth test or off screen)
+      let col=mix(rgb(C.line),rgb(C.surface),e.sel?0:0.4);const X=pc.eval((i+0.5)/N,(j+0.5)/N);if(e.S&&X&&R.seen(pi,X)){const p=project(R.cam,X),r=suv(e.S,p[0],p[1]);col=uvColour(pc.kind,r.u,r.v,e.sel)}
       cells.push({z:(a[2]+b[2]+c[2]+d[2])/4,q:[a,b,c,d],col})}});
   cells.sort((x,y)=>y.z-x.z).forEach(c=>{otx.beginPath();c.q.forEach((p,k)=>k?otx.lineTo(p[0],p[1]):otx.moveTo(p[0],p[1]));otx.closePath();const f='rgb('+c.col.join(',')+')';otx.fillStyle=f;otx.fill();otx.lineWidth=0.8;otx.strokeStyle=f;otx.stroke()});
-  // the surface's own (u, v) lines, and each piece's border
+  // the chosen quad: the surface's own (u, v) lines and each piece's border (drawn over everything, so they also show through where the quad is hidden)
   const pr=X=>{if(!X)return null;const p=project(oc,X);return p[2]>0?p:null},line=(pts,w,col,dash)=>{otx.beginPath();let on=false;pts.forEach(p=>{if(!p){on=false;return}if(on)otx.lineTo(p[0],p[1]);else{otx.moveTo(p[0],p[1]);on=true}});otx.lineWidth=w;otx.strokeStyle=col;otx.setLineDash(dash||[]);otx.stroke();otx.setLineDash([])};
-  const lw=Math.max(1,D/500);otx.globalAlpha=0.75;R.P.forEach(e=>{const pc=e.pc;for(let k=1;k<CHK;k++){const A=[],B=[];for(let t=0;t<=40;t++){A.push(pr(pc.eval(k/CHK,t/40)));B.push(pr(pc.eval(t/40,k/CHK)))}line(A,lw,C.fg);line(B,lw,C.fg)}});otx.globalAlpha=1;
-  R.P.forEach(e=>{const pc=e.pc,pts=[];for(let t=0;t<=160;t++){const s=t/40,k=Math.floor(Math.min(3.999,s)),f=s-k;pts.push(pr(k===0?pc.eval(f,0):k===1?pc.eval(1,f):k===2?pc.eval(1-f,1):pc.eval(0,1-f)))}line(pts,lw*2,C.fg)});
+  const lw=Math.max(1,D/500);otx.globalAlpha=0.75;R.P.forEach(e=>{if(!e.sel)return;const pc=e.pc;for(let k=1;k<CHK;k++){const A=[],B=[];for(let t=0;t<=40;t++){A.push(pr(pc.eval(k/CHK,t/40)));B.push(pr(pc.eval(t/40,k/CHK)))}line(A,lw,C.fg);line(B,lw,C.fg)}});otx.globalAlpha=1;
+  R.P.forEach(e=>{if(!e.sel)return;const pc=e.pc,pts=[];for(let t=0;t<=160;t++){const s=t/40,k=Math.floor(Math.min(3.999,s)),f=s-k;pts.push(pr(k===0?pc.eval(f,0):k===1?pc.eval(1,f):k===2?pc.eval(1-f,1):pc.eval(0,1-f)))}line(pts,lw*2,C.fg)});
   // trail, marker, landing
   line(R.trail.map(pr),lw*2.2,C.warn,[lw*4,lw*4]);R.trail.forEach(X=>{const p=pr(X);if(p)dot2(otx,p,lw*2.4,C.warn)});
   const g=pr(R.G),l=R.land&&pr(R.land.X);if(g&&l)line([g,l],lw*2.5,C.fg);if(g)dot2(otx,g,Math.max(6,D/60),C.good,true);if(l)dot2(otx,l,Math.max(6,D/60),C.warn,true);
-  // where the left camera is: an arrow from the quad toward it
-  const a0=pr(R.Q.T),a1=pr(add(R.Q.T,mul(norm(sub(R.cam.pos,R.Q.T)),R.Q.dist*0.22)));if(a0&&a1){line([a0,a1],lw*2,C.accent);dot2(otx,a1,lw*4,C.accent);otx.fillStyle=C.accent;otx.font=(12*D/480).toFixed(0)+'px '+getComputedStyle(document.body).fontFamily;otx.fillText('left camera',a1[0]+lw*6,a1[1])}}
+  // where the left camera is: an arrow from the chosen quad toward it
+  const qc=Q.mk.ctr||Q.T,a0=pr(qc),a1=pr(add(qc,mul(norm(sub(R.cam.pos,qc)),Q.dist*0.18)));if(a0&&a1){line([a0,a1],lw*2,C.accent);dot2(otx,a1,lw*4,C.accent);otx.fillStyle=C.accent;otx.font=(12*D/480).toFixed(0)+'px '+getComputedStyle(document.body).fontFamily;otx.fillText('left camera',a1[0]+lw*6,a1[1])}}
 function drawAll(){if(!R)return;drawLeft();drawRight()}
 const pct=x=>(x*100).toFixed(x<0.001?3:x<0.1?2:1)+'%';
-function checks(){const r=R,rows=[];const mk=r.land?len(sub(r.land.X,r.G))/r.EL:null;
-  rows.push(['Slide at the marker (green → red)',mk==null?'— (marker faces away or no solution)':pct(mk)]);
-  rows.push(['Largest slide over the quad, this camera',pct(r.smax)]);rows.push(['Average slide over the quad, this camera',pct(r.smean)]);
+function checks(){const r=R,rows=[],f=x=>x.toLocaleString('en-US');const mk=r.land?len(sub(r.land.X,r.G))/r.EL:null;
+  rows.push(['Slide at the marker (green → red)',mk==null?'— (the left camera doesn’t see the marker)':pct(mk)]);
+  rows.push(['Largest slide over the chosen quad, this camera',pct(r.smax)]);rows.push(['Average slide over the chosen quad, this camera',pct(r.smean)]);
   rows.push(['Largest (u, v) error, this camera',r.uvmax.toFixed(4)]);
   rows.push(['Marker path over 25 camera angles (widest span)',pct(r.tspan/r.EL)]);
-  rows.push(['Part of the quad turned away from the left camera',pct(r.tot?r.back/r.tot:0)]);
-  if(st.mode===0)rows.push(['Pixels claimed by two pieces (fold)',r.twice.toLocaleString('en-US')+' of '+r.owned.toLocaleString('en-US')]);
-  if(r.noScreen)rows.push(['Pieces with no screen picture (behind the camera)',String(r.noScreen)]);
-  rows.push(['Pieces in this quad',String(r.P.length)]);
+  rows.push(['Part of the chosen quad the left camera doesn’t see',pct(r.tot?r.hid/r.tot:0)]);
+  rows.push(['Pixels covered',f(r.F.owned)+' of '+f(r.W*r.W)]);
+  if(st.mode===0){rows.push(['Pixels inside 2 or more pieces’ edges (decided by depth)',f(r.F.deep)]);rows.push(['Pixels inside a piece’s edges whose ray misses its quadric, and nothing else covers',f(r.F.lost)])}
+  if(r.CMP){const c=r.CMP,tot=c.same+c.other+c.onlyB+c.onlyA;rows.push(['Check against step 11: same piece',f(c.same)+' ('+pct(tot?c.same/tot:0)+')']);rows.push(['Check: a different piece wins (fold or crack)',f(c.other)]);rows.push(['Check: step 11 covers, option b doesn’t',f(c.onlyB)]);rows.push(['Check: option b covers, step 11 doesn’t',f(c.onlyA)])}
+  if(r.noScreen)rows.push(['Pieces of the chosen quad with no screen edges this frame',String(r.noScreen)]);
+  rows.push(['Pieces in the mesh / in the chosen quad',r.P.length+' / '+r.P.filter(e=>e.sel).length]);
   costTable();
   document.getElementById('checks').innerHTML=rows.map(([a,b])=>'<tr><td>'+a+'</td><td class="n">'+b+'</td></tr>').join('');
-  document.getElementById('lnote').textContent=st.mode===0?'Each pixel’s (u, v) is computed from the projected side arcs only. Drag to orbit.':'Each pixel’s (u, v) comes from the ray hitting the piece’s surface (step 11). Drag to orbit.'}
-
+  const LG={0:[['var(--pin)','Chosen quad (full colour); the rest of the mesh faded'],['var(--warn)','(u, v) outside 0…1, or inside the edges but the ray misses the quadric']],1:[['var(--fg)','Near (normalized distance → 0)'],['var(--surface)','Far, or nothing written (0)'],['var(--warn)','Inside the edges but the ray misses the quadric']],2:[['color-mix(in srgb, var(--fg) 22%, var(--surface))','Same piece as step 11'],['var(--warn)','A different piece wins'],['var(--accent)','Only step 11 covers it'],['var(--good)','Only option b covers it']]}[st.view];
+  document.getElementById('lleg').innerHTML=st.mode===0||st.view===1?LG.map(([c,t])=>'<span><span class="ln" style="background:'+c+'"></span>'+t+'</span>').join(''):'';
+  document.getElementById('lnote').textContent=st.mode===0?'Edges: which piece covers a pixel, and its (u, v). Depth: the pixel’s ray against that piece’s quadric; nearest wins. Drag to orbit.':'Each pixel’s (u, v) and depth come from the ray hitting the piece’s surface (step 11). Drag to orbit.'}
 function costTable(){const el=document.getElementById('cost'),r=R,f=x=>x.toLocaleString('en-US',{maximumFractionDigits:x<10?1:0}),row=(a,T,n)=>'<tr><td>'+a+'</td><td>'+opStr(T)+'</td><td class="n">'+f(flops(T)*(n||1))+'</td><td class="n">'+f(cyc(T)*(n||1))+'</td></tr>';
   if(st.mode!==0){el.innerHTML='<tr><td colspan="4">Surface (u, v) is the step 11 ray pass: its cost model is on the step 11 page (about 15 cycles per piece tested). Measured here: '+r.passMs.toFixed(2)+' ms for '+f(r.F.tests)+' piece tests.</td></tr>';return}
-  const T=costOf(r);if(!T){el.innerHTML='';return}const one=t=>{const o={};[0,1,2,3].forEach(()=>addOps(o,PIX[t]));return addOps(o,PIXQ)},oneRow=t=>{const o={};[0,1,2,3].forEach(()=>addOps(o,ROW[t]));return addOps(o,ROWQ)},oneFrame=t=>{const o={};[0,1,2,3].forEach(()=>addOps(o,FRAME[t]));addOps(o,PROJ,t?9:5);return addOps(o,CENTRE)};
-  const ct=st.form===1?2:1,tot={};addOps(tot,T.pix);addOps(tot,T.row);addOps(tot,T.frame);const cycles=cyc(T.pix)+cyc(T.row)+cyc(T.frame),us=cycles/3000;
-  el.innerHTML=row('One pixel vs one piece, 4 curved sides',one(ct))+row('One pixel vs one piece, 4 straight sides',one(0))+row('Row start, per piece (4 curved sides)',oneRow(ct))+row('Frame setup, per piece (4 curved sides)',oneFrame(ct))
-    +'<tr><td colspan="4" style="color:var(--muted)">This frame: '+f(r.W*r.W)+' pixels, '+f(r.F.tests)+' pixel–piece tests ('+(r.F.tests/(r.W*r.W)).toFixed(2)+' per pixel), '+f(r.F.rows)+' row starts, '+(n=>n+(n===1?' piece':' pieces'))(r.P.filter(e=>e.S).length)+'</td></tr>'
-    +row('All pixel tests',T.pix)+row('All row starts',T.row)+row('All frame setup',T.frame)
+  const T=costOf(r);if(!T){el.innerHTML='';return}const sides=(t,o0)=>{const o={};[0,1,2,3].forEach(()=>addOps(o,o0[t]));return o},one=t=>addOps(addOps(sides(t,PIX),PIXQ),{add:3}),oneRow=t=>addOps(sides(t,ROW),ROWQ),oneFrame=t=>{const o=sides(t,FRAME);addOps(o,PROJ,t?9:5);addOps(o,CENTRE);return addOps(o,ZFRAME)};
+  const ct=st.form===1?2:1,tot={};addOps(tot,T.pix);addOps(tot,T.row);addOps(tot,T.frame);const cycles=cyc(T.pix)+cyc(T.row)+cyc(T.frame),us=cycles/3000,np=r.P.filter(e=>e.S).length;
+  el.innerHTML=row('Edge test: one pixel vs one piece, 4 curved sides',one(ct))+row('Edge test: one pixel vs one piece, 4 straight sides',one(0))+row('Depth + (u, v): one pixel inside a piece',PIXZ)+row('Row start, per piece (4 curved sides)',oneRow(ct))+row('Frame setup, per piece (4 curved sides)',oneFrame(ct))
+    +'<tr><td colspan="4" style="color:var(--muted)">This frame: '+f(r.W*r.W)+' pixels, '+f(r.F.tests)+' edge tests ('+(r.F.tests/(r.W*r.W)).toFixed(2)+' per pixel), '+f(r.F.inside)+' depth tests ('+(r.F.inside/(r.W*r.W)).toFixed(2)+' per pixel), '+f(r.F.rows)+' row starts, '+np+(np===1?' piece':' pieces')+'</td></tr>'
+    +row('All pixel work',T.pix)+row('All row starts',T.row)+row('All frame setup',T.frame)
     +'<tr><td><b>Frame total</b></td><td>'+f(cycles/(r.W*r.W))+' cycles per pixel</td><td class="n">'+f(flops(tot))+'</td><td class="n">'+f(cycles)+'</td></tr>'
     +'<tr><td>Model at 3 GHz, one core</td><td>'+us.toFixed(1)+' µs per frame</td><td class="n"></td><td class="n">'+f(1e6/us)+' FPS</td></tr>'
     +'<tr><td>Measured here (JavaScript)</td><td>pixel pass '+r.passMs.toFixed(2)+' ms</td><td class="n"></td><td class="n">'+f(1000/Math.max(r.passMs,1e-3))+' /s</td></tr>'}
@@ -466,7 +495,7 @@ function costTable(){const el=document.getElementById('cost'),r=R,f=x=>x.toLocal
 // ---------------- controls ----------------
 function quadButtons(){const n=PIECES.source(st.mesh).length,g=document.getElementById('g-quad');if(st.quad>=n)st.quad=0;g.innerHTML=[...Array(n).keys()].map(i=>'<button data-v="'+i+'"'+(i===st.quad?' class="on"':'')+'>'+i+'</button>').join('');[...g.querySelectorAll('button')].forEach(b=>b.onclick=()=>{st.quad=+b.dataset.v;st.init=false;save();quadButtons();run()})}
 function seg(id,k,after){const g=document.getElementById(id),bs=[...g.querySelectorAll('button')],sync=()=>bs.forEach(b=>b.classList.toggle('on',String(st[k])===b.dataset.v));bs.forEach(b=>b.onclick=()=>{st[k]=+b.dataset.v;sync();if(after)after();save();run()});sync()}
-seg('g-mesh','mesh',()=>{st.quad=st.mesh===3?1:2;st.init=false;quadButtons()});seg('g-mode','mode');seg('g-form','form');seg('g-res','res');quadButtons();
+seg('g-mesh','mesh',()=>{st.quad=st.mesh===3?1:2;st.init=false;quadButtons()});seg('g-mode','mode');seg('g-form','form');seg('g-res','res');seg('g-view','view');quadButtons();
 [['mu','muo'],['mv','mvo']].forEach(([id,oid])=>{const i=document.getElementById(id),o=document.getElementById(oid);i.value=st[id];o.textContent=(+st[id]).toFixed(2);let t=0;i.addEventListener('input',()=>{st[id]=+i.value;o.textContent=st[id].toFixed(2);save();cancelAnimationFrame(t);t=requestAnimationFrame(run)})});
 document.getElementById('reset').onclick=()=>{st.init=false;save();run()};
 document.getElementById('face').onclick=()=>{const Q=quadInfo();st.cy=Q.yaw0;st.cp=Q.pitch0;save();run()};

diff --git a/index.html b/index.html
@@ -127,7 +127,7 @@ code{font-family:var(--f-mono);font-size:.92em}
   <li><span class="num">13</span><div class="body">
     <h2>UV slides <span class="tag current">current</span></h2>
     <p class="q">Option (b): take (u, v) from the projected side arcs only. Does it stay on the same surface point when the camera moves?</p>
-    <ul class="find"><li>Flat pieces: exact. Curved pieces slide: smooth cube 17.6% of an edge at the marker, 12.8% even straight on; wave 3.25%.</li><li>The full projected conic also vanishes on the ellipse's other half, which crosses the smooth cube's face. Only an arc-only form (one square root per side) works.</li><li>Folds: past a silhouette, the projected side runs across visible surface and its (u, v) leaves 0…1.</li></ul>
+    <ul class="find"><li>Flat pieces: exact. Curved pieces slide: smooth cube 17.6% of an edge at the marker, 12.8% even straight on; wave 3.25%.</li><li>The full projected conic also vanishes on the ellipse's other half, which crosses the smooth cube's face. Only an arc-only form (one square root per side) works.</li><li>Folds: past a silhouette, the projected side runs across visible surface and its (u, v) leaves 0…1.</li><li>Whole mesh with the depth test: the same piece as step 11 on 100% of the wave, 99.3% of the rounded box and 53.7% of the smooth cube, where every face folds. FPS counter and cycle/FLOP table on the page.</li></ul>
     <div class="links"><a class="btn" href="examples/08-uv-slides.html">Open UV slides</a></div></div></li>
 </ol>
 

diff --git a/docs/rnd-log.md b/docs/rnd-log.md
@@ -419,6 +419,28 @@ Question: take (u, v) straight from the projected side arcs (option b), which is
 - The page shows a live FPS counter (frames drawn, plus the pixel pass time in JavaScript) and an auto orbit.
 - **Camera fix:** pages 01, 06 and 08 orbit the camera and turned the shape the wrong way on a sideways drag. Now dragging right turns the front to the right, as on the other pages.
 
+**13c. Whole mesh, with depth.** The edges decide which pieces contain a pixel and give its (u, v). Depth works as in step 11: each such piece shoots the pixel's ray at its own quadric, and the nearest wins and writes the occlusion map.
+- **Root choice:** of the quadric's two hits, take t = (−b − s·√D) / 2a with s = σ·f.
+  - σ: whether the quadric's gradient points outward at the piece centre (fixed per piece).
+  - f: whether the piece centre faces the camera (per frame).
+  - This is the "sign of ∇Q · ray" rule from step 12, problem 3.
+- **Check against step 11** (which piece wins each pixel), default camera, 200²:
+
+| Mesh | Same piece as step 11 | Different piece | Only step 11 covers | Only (b) covers |
+|---|---|---|---|---|
+| Smooth cube | 53.7% | 12,282 | 1,434 | 0 |
+| Rounded box | 99.3% | 130 | 3 | 0 |
+| Mixed cube | 93.8% | 705 | 442 | 440 |
+| Wave | 100% | 0 | 0 | 0 |
+
+- **Folds are the blocker.** A piece that curves past the silhouette projects its far edge back across its own visible part. Pixels the camera really sees on it then fall outside its edges and go to the piece behind.
+  - Each smooth-cube face is one piece spanning 90° of the sphere, so it folds at most views.
+  - The wave matches exactly at all 7 test angles when nothing folds; when parts fold, up to 173 pixels differ.
+- **Cost** (rounded box, 54 pieces, 200²):
+  - edge test 13 cycles per piece tested (2.27 per pixel);
+  - depth + (u, v) 12 cycles per piece whose edges contain the pixel (0.93 per pixel);
+  - about 20 cycles per pixel and 265 µs per frame at 3 GHz.
+
 ## Prior art
 
 Collected from memory at first. Step 7 checked the shared-edge part against abstracts and citing papers.

diff --git a/README.md b/README.md
@@ -73,7 +73,7 @@ Cracks, pieces with no surface inside, and far-side hits, each with a picture (t
 
 ### 13 · UV slides — [Preview](https://htmlpreview.github.io/?https://github.com/Zieviox/curved-quad-mapping/blob/main/examples/08-uv-slides.html) · [Source](examples/08-uv-slides.html)
 
-Option (b): (u, v) from the projected side arcs only, against the surface's own (u, v). Flat pieces are exact. Curved pieces slide when the camera moves (smooth cube: 17.6% of an edge at the marker). The full projected conic has to be cut down to the arc, and folds push (u, v) outside 0…1.
+Option (b): (u, v) from the projected side arcs only, against the surface's own (u, v). Flat pieces are exact. Curved pieces slide when the camera moves (smooth cube: 17.6% of an edge at the marker). The full projected conic has to be cut down to the arc, and folds push (u, v) outside 0…1. With the depth test over the whole mesh, (b) gives the same piece as step 11 except where pieces fold past the silhouette.
 
 ![UV slides: the moving camera's screen (u, v) painted on the surface, seen from a fixed camera](docs/img/08-uv-slides.png)
 
